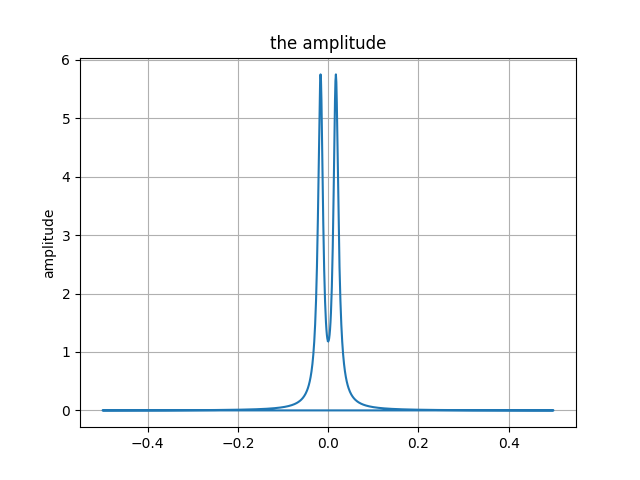
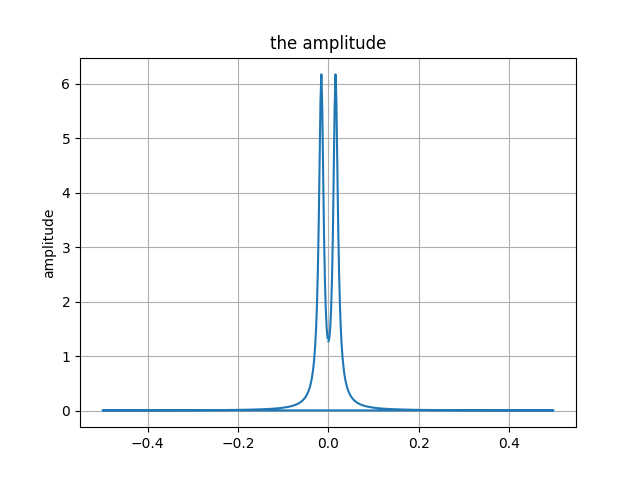
amplitude matched

diff --git a/matching_wavelet.py b/matching_wavelet.py
@@ -1,0 +1,73 @@
+import numpy as np
+import matplotlib.pyplot as plt
+
+begintime = 0
+endtime = 10
+timelength = endtime - begintime
+samplingfreq = 512
+samplinginterval = timelength / samplingfreq
+timepoints = np.arange(begintime, endtime, samplinginterval)
+N = samplingfreq # number of sample
+l = 4
+T = 2 ** l # period
+delta_omega = 2*np.pi / T
+P = int(N / T) # number of period
+R = 2 # degree of phase function of lanmda_T
+
+print(len(timepoints))
+
+alpha = 2.0
+f_0 = 0.8
+def f_T(x) :
+    if x <= 0 :
+        u = 0
+    else :
+        u = 1 
+    return x * np.exp(-alpha * x) * np.cos(2*np.pi*f_0*x) * u
+signal = [f_T(x) for x in timepoints]
+
+# Make matrix A
+A = np.zeros((11,16))
+A[0][0] = A[0][6] = 1
+A[1][1] = A[1][8] = 1
+A[2][2] = A[2][10] = 1
+A[3][3] = A[3][12] = 1
+A[4][4] = A[4][14] = 1
+A[5][5] = A[5][15] = 1
+A[6][6] = A[6][14] = 1
+A[7][7] = A[7][13] = 1
+A[8][8] = A[8][12] = 1
+A[9][9] = A[9][11] = 1
+A[10][10] = 2
+
+
+# Make matrix W
+fft = np.fft.fft(signal)
+fft_magnitude = abs(fft)
+
+start_n = int(2**l / 3) + 1
+end_n = int((2**(l+2)) / 3)
+W = np.array(fft_magnitude[start_n-1: end_n]) # W.shape = (end_n - start_n + 1, 1)
+if end_n - start_n + 1 == W.shape[0] :
+    print("Right the size of W")
+    print(f"W.shape {W.shape} | end_n - start_n {end_n - start_n + 1}")
+else :
+    print(f"W.shape have to equal to {end_n - start_n + 1}. Configure the size.")
+
+# Calculate Y
+a = 1.0348 # constant. hyperparameters
+A_t = np.transpose(A)
+Y1 = np.matmul(A_t, np.linalg.inv(np.matmul(A, A_t)))
+Y2 = np.ones(A.shape[0]) - 1/a * np.matmul(A, W)
+Y = 1/a * W + np.matmul(Y1, Y2)
+print(Y.shape)
+
+
+# Draw the vector Y
+plt.title("Amplitude matching")
+plt.plot([i for i in range(Y.shape[0])], Y, label='Amplitude Matching')
+plt.plot([i for i in range(Y.shape[0])], fft_magnitude[start_n-3:end_n-2], '--', label='Amplitude of singal fft')
+plt.grid()
+plt.legend()
+
+plt.savefig("Amplitude_matching.png")

diff --git a/fft_magnitude.py b/fft_magnitude.py
@@ -1,10 +1,10 @@
 import numpy as np
 import matplotlib.pyplot as plt
 
-begintime = -1
-endtime = 20
+begintime = 0
+endtime = 10
 timelength = endtime - begintime
-samplingfreq = 1000
+samplingfreq = 512
 samplinginterval = timelength / samplingfreq
 timepoints = np.arange(begintime, endtime, samplinginterval)
 num_samples = len(timepoints)
@@ -22,21 +22,18 @@ signal = [f_T(x) for x in timepoints]
 
 # Discrete Fourier transform with Fast Fourier Transform
 fft = np.fft.fft(signal)
-print(len(fft))
-print(fft[0], fft[1], fft[2], fft[-1])
 fft_magnitude = abs(fft)
 
 N = samplingfreq 
 T = 16 
 delta_omega = 2*np.pi / T
 P = int(N / T)
-R = 2 # degree of phase function of H
+R = 2 # degree of phase function of lanmda_T
 
 # Draw the signal graph
 plt.title("the amplitude")
 plt.ylabel("amplitude")
 freq = np.fft.fftfreq(num_samples)
-print(freq[:4])
 plt.plot(freq, fft_magnitude)
 plt.grid()
 
